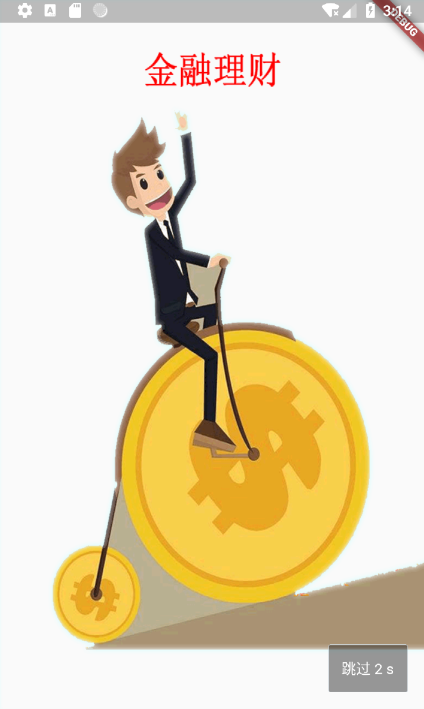
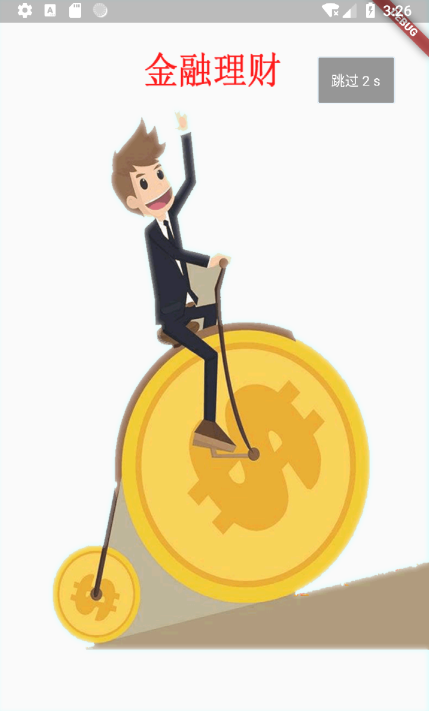
首页动画修改

diff --git a/lib/page/welcome/splash_page.dart b/lib/page/welcome/splash_page.dart
@@ -1,5 +1,6 @@
 
 import 'package:flutter/material.dart';
+import 'package:flutter_screenutil/flutter_screenutil.dart';
 import 'package:common_utils/common_utils.dart';
 import 'package:flutter_app/page/home/home_page.dart';
 
@@ -9,6 +10,7 @@ class SplashScreen extends StatefulWidget {
 }
 
 class _SplashScreenState extends State<SplashScreen> with SingleTickerProviderStateMixin{
+
   AnimationController _controller;
   Animation _animation;
   int _count = 5;
@@ -43,6 +45,10 @@ class _SplashScreenState extends State<SplashScreen> with SingleTickerProviderSt
   void _doCountDown() {
     _timerUtil = new TimerUtil(mTotalTime: 3 * 1000);
     _timerUtil.setOnTimerTickCallback((int tick) {
+      // 如果已经被销毁，那么不执行
+      if (!mounted) {
+        return;
+      }
       double _tick = tick / 1000;
       setState(() {
         _count = _tick.toInt(); 
@@ -56,6 +62,10 @@ class _SplashScreenState extends State<SplashScreen> with SingleTickerProviderSt
 
   @override
   Widget build(BuildContext context) {
+
+    // 初始化页面 width=750; height=1334;
+    ScreenUtil.instance = ScreenUtil(width: 375, height: 812)..init(context);
+
     return new Material(
       child: new Stack(
         children: <Widget>[
@@ -68,27 +78,31 @@ class _SplashScreenState extends State<SplashScreen> with SingleTickerProviderSt
               height: double.infinity,
             ),
           ),
-          new Container(
-            alignment: Alignment.bottomRight,
-            margin: EdgeInsets.all(20),
-            child: InkWell(
-              onTap: () {
-                _goMain();
-              },
-              child: new Container(
-                padding: EdgeInsets.all(12),
-                child: new Text('跳过 $_count s', style: new TextStyle(fontSize: 14, color: Colors.white),),
-                decoration: new BoxDecoration(
-                  color: Color(0x66000000),
-                  borderRadius: BorderRadius.all(Radius.circular(2.0)),
-                  border: new Border.all(
-                    width: 0.33,
-                    color: Colors.blue[50],
+          Positioned(
+            top: ScreenUtil().setWidth(33),
+            right: ScreenUtil().setWidth(11),
+            child: new Container(
+              alignment: Alignment.bottomRight,
+              margin: EdgeInsets.all(20),
+              child: InkWell(
+                onTap: () {
+                  _goMain();
+                },
+                child: new Container(
+                  padding: EdgeInsets.all(12),
+                  child: new Text('跳过 $_count s', style: new TextStyle(fontSize: ScreenUtil().setSp(12), color: Colors.white),),
+                  decoration: new BoxDecoration(
+                    color: Color(0x66000000),
+                    borderRadius: BorderRadius.all(Radius.circular(2.0)),
+                    border: new Border.all(
+                      width: ScreenUtil().setWidth(1),
+                      color: Colors.blue[50],
+                    ),
                   ),
                 ),
               ),
             ),
-          ),
+          )
         ],
       ),
     );

diff --git a/lib/unit/event_bus.dart b/lib/unit/event_bus.dart
@@ -1,0 +1,60 @@
+//订阅者回调签名
+typedef void EventCallback(arg);
+
+class EventBus {
+  //私有构造函数
+  EventBus._internal();
+
+  // Dart中实现单例模式的标准做法就是：使用static变量 + 工厂构造函数的方式
+  // 这样就可以保证new EventBus()始终返回都是同一个实例
+
+  //保存单例
+  static EventBus _singleton = new EventBus._internal();
+  //工厂构造函数
+  factory EventBus() => _singleton;
+
+  //保存事件订阅者队列，key:事件名(id)，value: 对应事件的订阅者队列
+  var _emap = new Map<Object, List<EventCallback>>();
+
+  //添加订阅者
+  void on(eventName, EventCallback f) {
+    if (eventName == null || f == null) return;
+    _emap[eventName] ??= new List<EventCallback>();
+    _emap[eventName].add(f);
+  }
+
+  //移除订阅者
+  void off(eventName, [EventCallback f]) {
+    var list = _emap[eventName];
+    if (eventName == null || list == null) return;
+    if (f == null) {
+      _emap[eventName] = null;
+    } else {
+      list.remove(f);
+    }
+  }
+
+  //触发事件，事件触发后该事件所有订阅者会被调用
+  void emit(eventName, [arg]) {
+    var list = _emap[eventName];
+    if (list == null) return;
+    int len = list.length - 1;
+    //反向遍历，防止在订阅者在回调中移除自身带来的下标错位 
+    for (var i = len; i > -1; --i) {
+      list[i](arg);
+    }
+  }
+}
+
+/**
+* // 页面A中
+* 监听登录事件
+* bus.on("login", (arg) {
+*   doFunction
+* });
+*
+* 登录页B中
+* 登录成功后触发登录事件，页面A中订阅者会被调用
+* bus.emit("login", userInfo);
+*
+*/

diff --git a/lib/main.dart b/lib/main.dart
@@ -1,7 +1,6 @@
 import 'package:flutter/material.dart';
+// 自己的文件包
 import 'package:flutter_app/page/welcome/splash_page.dart';
-import 'package:flutter_screenutil/flutter_screenutil.dart';
-
 import 'package:flutter_app/page/home/home_page.dart';
 import 'package:flutter_app/page/treasure/treasure_page.dart';
 import 'package:flutter_app/page/customer/customer_page.dart';
@@ -10,6 +9,7 @@ import 'package:flutter_app/page/login/login_page.dart';
 void main() => runApp(MyApp());
 
 class MyApp extends StatelessWidget {
+
   @override
   Widget build(BuildContext context) {
     return MaterialApp(
@@ -39,8 +39,6 @@ class _MainPageState extends State<MainPage> {
 
   @override
   Widget build(BuildContext context) {
-    // 初始化页面 width=750; height=1334;
-    ScreenUtil.instance = ScreenUtil(width: 375, height: 812)..init(context);
 
     return Scaffold(
       bottomNavigationBar: BottomNavigationBar( // 底部导航

diff --git a/lib/page/customer/customer_page.dart b/lib/page/customer/customer_page.dart
@@ -1,4 +1,5 @@
 import 'package:flutter/material.dart';
+import 'package:flutter_app/unit/event_bus.dart';
 
 class CustomerPage extends StatefulWidget {
   @override
@@ -6,6 +7,8 @@ class CustomerPage extends StatefulWidget {
 }
 
 class _CustomerPageState extends State<CustomerPage> {
+
+  final EventBus bus = new EventBus();
   
   @override
   Widget build(BuildContext context) {
